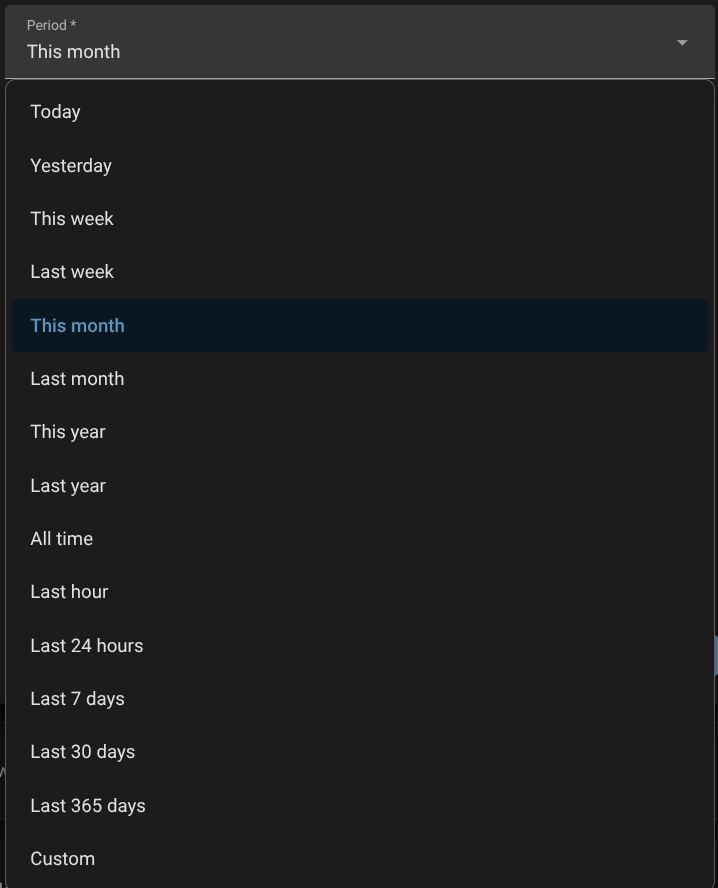
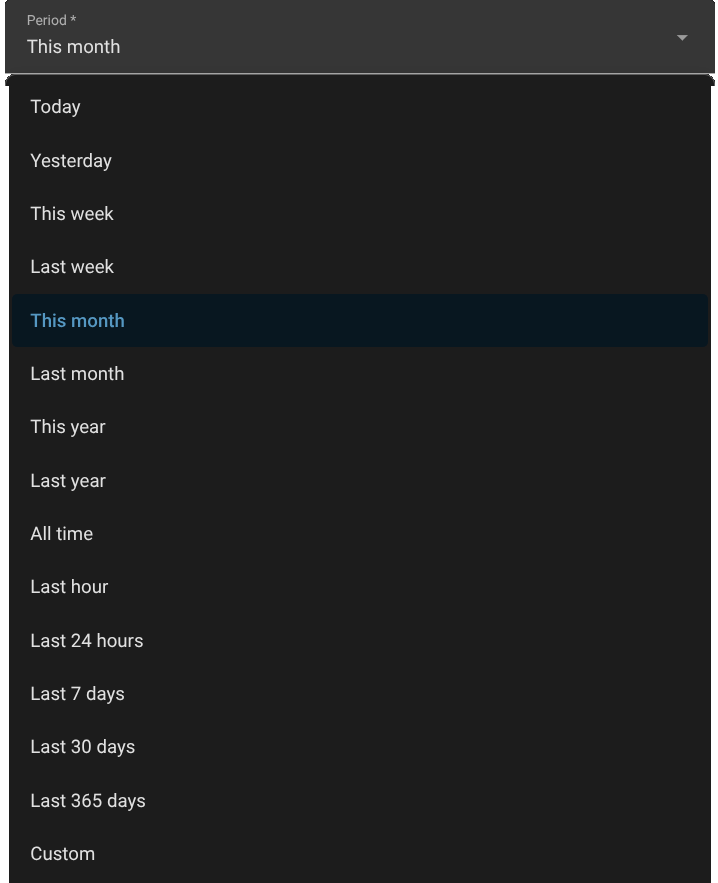
README: time at places, a fairer history_stats comparison, trimmed screenshots (#8)
* Show time at places: a person's zones are states like any other

* Compare with history_stats using the integration's own card

* Trim the screenshots to their dialogs and cards

* Scope the limitations to the statistics and say how rare the rest are

* Fold the hour-in-progress limitation into the hourly one

* Compare with history_stats as two foundations for the same numbers

* Open the history_stats comparison on the two approaches

* Say what starting from the statistics is for

* Rephrase the exactness paragraph

* Say what precompiled statistics cost to read

* Rework what the foundation gives, in the reader's terms

* Show how an interval count depends on its window once summed

* Say in what sense history_stats is the simpler choice

diff --git a/README.md b/README.md
@@ -464,6 +464,59 @@ With the stock card a state that appears later accumulates immediately
 but must be added to the card's `entities` list to be drawn; the card
 below draws it as soon as it has statistics.
 
+### Time at places
+
+A `person` or `device_tracker` entity's state is the zone it is in —
+`home`, `Work`, `Gym`, or `not_home` for anywhere else — so it is an enum
+entity like any other, and the same statistics answer "how long at the
+office this week" and "how many trips to the gym this year". Nothing to
+configure beyond the entity:
+
+```yaml
+discrete_statistics:
+  - entity_id: person.alice
+```
+
+Hours at each place per week, stacked, with the integration's card:
+
+```yaml
+type: custom:discrete-statistics-card
+title: Alice
+entity: person.alice
+chart_type: bar-stack
+period: week
+days_to_show: 90
+```
+
+The same with the stock card, naming the places to draw. The state is the
+zone's name, and the statistic ID holds it as a token — lower case, spaces
+and punctuation dropped — so a zone named *Work* is `work` and *Mum's
+House* is `mumshouse`:
+
+```yaml
+type: statistics-graph
+title: Alice
+chart_type: bar-stack
+period: week
+days_to_show: 90
+stat_types:
+  - change
+entities:
+  - discrete_statistics:person_alice_home_duration
+  - discrete_statistics:person_alice_work_duration
+  - discrete_statistics:person_alice_not_home_duration
+```
+
+Trips are the count statistic: `discrete_statistics:person_alice_gym_count`
+per month is how often the gym was visited, and a [period
+sensor](#period-sensors) over the `gym` state with the count measure and
+*This year* puts that number in a tile. A zone is a state from the moment
+its entity crosses the boundary, so a phone that reports its position
+every few minutes gives an arrival time accurate to that interval, and a
+short excursion out of a zone and back is a state change like any other —
+`min_duration` with `ignore_short` on `not_home` smooths those out.
+
+
 ## The card
 
 The integration ships its own card, so nothing needs adding under
@@ -748,22 +801,23 @@ idempotent and the next run catches up.
 ## Compared with `history_stats`
 
 Home Assistant's own [`history_stats`](https://www.home-assistant.io/integrations/history_stats/)
-answers a different question. It is a sensor whose value is *how much of a
-window* an entity spent in some states — the window being whatever its
-`start`/`end` templates render to right now — and it reads that from the
-recorder each time. This component writes the answer for every hour, once,
-into statistics that outlive the recorder. Each is the right tool for a
-specific job.
+answers the same questions — how long an entity spent in some states over
+a window, what share of the window that was, how often it entered them —
+and, over a window whose hours the recorder still holds, from the same
+rows, to the same result. The two approach it from opposite ends.
 
-The two are built the other way round from each other. `history_stats` is
-sensor first: the number is what it makes, and long-term statistics of it
-are optional, a `state_class` on the sensor for the recorder to sum. This
-component is statistics first: the hourly rows are the product, and a
+`history_stats` is sensor first. Its sensor is the product: on every
+refresh it reads the recorder's raw states for whatever window its
+templates render to now, and long-term statistics of that number are
+optional, a `state_class` on the sensor for the recorder to sum. This
+component is statistics first. The hourly rows are the product, compiled
+once from the raw states and kept past the recorder's retention, and a
 sensor over them is optional, a period sensor on the entry. That order is
 what lets the recorder's retention be short — a few days is enough, since
 the statistics are compiled from the history while it is still there — and
 what makes a long range cheap: a year is twelve rows a state, not a year of
-state changes read back.
+state changes read back. The difference between the two is where the
+number lives between readings.
 
 ### The same chart, both ways
 
@@ -813,118 +867,152 @@ discrete_statistics:
 ```
 
 ```yaml
-type: statistics-graph
+type: custom:discrete-statistics-card
+entity: binary_sensor.grid_status
 period: day
 days_to_show: 365
-stat_types:
-  - change
-entities:
-  - discrete_statistics:binary_sensor_grid_status_off_duration
-  - discrete_statistics:binary_sensor_grid_status_off_count
+metric: count
+states:
+  - "off"
 ```
 
-The two cards look alike. The first one is wrong in ways that are hard to
-see:
+and the same card with `metric: duration` for the hours off-grid.
 
-- **It starts today.** The sensors have no value before they exist, so the
-  chart is empty for the past year and fills in from now. The second reaches
-  back as far as the recorder held history when the entity was first
-  compiled.
-- **Midnight is detected, not known.** `total_increasing` has no reset
-  signal; the recorder infers one when the value drops below 90 % of the
-  previous reading. Whether an outage that spans midnight is counted once
-  or twice therefore depends on the day before: after a day with one outage
-  the count reads `1` on both sides of midnight, no drop, no reset, counted
-  once; after a day with two it drops from `2` to `1`, a reset, and the
-  outage is counted again. The second card credits it to the hour it began.
-- **A restart during the outage splits it.** `unavailable` is not `off`, so
-  the interval closes and a new one opens, the count goes up, and the
-  downtime is attributed to nothing. The second card carries `off` across
-  it.
-- **Three more states means six more sensors**, each with the same window
-  templates to keep right, and a state the entity has not shown yet has no
-  sensor at all.
-- **The value is a sensor's state**, so it is recorded to the recorder like
-  any other, purged like any other, and the statistics are derived from
-  samples of it rather than from the transitions themselves.
+The charts look alike; the foundation shows at the edges:
 
-None of that is a defect in `history_stats`: it was built to show a live
-figure, and the long-term statistics are a by-product of giving that figure
-a `state_class`. Writing the statistics directly is the point of this
-component.
+- **Where the series begins.** A sensor's statistics begin when the sensor
+  is created; compiled statistics begin where the recorder's history did.
+- **Midnight.** A `total_increasing` sensor resets by inference — the
+  recorder notices a drop below 90 % of the previous reading — so an outage
+  that spans midnight is counted once or twice depending on the day before:
+  after a day with one outage the count reads `1` on both sides of it, no
+  drop, counted once; after a day with two it drops from `2` to `1`, a
+  reset, counted again. A compiled hour credits a change to the hour it
+  happened in.
+- **A restart.** During an outage the entity is briefly `unavailable`; to a
+  sensor over `off` that is the end of one interval and the start of
+  another, and the downtime belongs to neither. Here `unavailable` carries
+  the previous state forward, so the outage stays one outage.
+- **More states.** Each state × measure × window is another sensor to
+  configure, with the same window templates to keep right; here every state
+  of the entity is recorded from one entry, including one it starts
+  reporting next year.
+- **What is stored.** A sensor's statistics are samples of its value, taken
+  as the recorder takes them; compiled statistics are the transitions
+  themselves, so every hour's durations add up to the hour.
 
-### Things this component does that `history_stats` cannot
+`history_stats` was built to show a live figure, and does; its long-term
+statistics are what the recorder makes of any sensor. This component
+starts from the statistics, and ensures those are accurately recorded over
+time.
 
-**Every state of an enum, from one line.** A heat pump's `hvac_action` has
+### What the foundation gives
+
+**High performance.** The statistics are precompiled, so a reading is
+arithmetic on a handful of rows: the sum at the window's last edge minus the
+sum at its first. The recorder's raw states are read only for what is not
+compiled yet — the hour in progress — and for a rolling or custom window,
+the hour an edge falls in: two hours of state changes at most, for a window
+of a day or a year alike. `history_stats` reads the whole window's state
+changes on every refresh, so a year-long window fetches a year of raw data
+every minute.
+
+**Long-term correctness.** Over a window whose hours the recorder still
+holds, both read the same state rows: no difference. Past the recorder's
+retention window `history_stats` is missing data - and the calculations
+become incorrect. Here the historical hours are already compiled, so
+long-term calculations stay correct. For sub-hour accuracy covering purged
+data (e.g. Last 365 days, with 7 day recorder retention) - we estimate the
+first partial hour by pro-rating that hour's statistics: see `estimated`.
+
+
+**Enables short recorder history (`purge_keep_days`).** Statistics are never
+purged. This component stores its key data in long-term statistics, so the
+recorder can be set to purge after a few days, with no impact to its graphs
+or sensors (save sub-hour pro-rating). `history_stats` requires a long recorder storage to function
+over long windows.
+
+**Every state from a single config.** A heat pump's `hvac_action` has
 `heating`, `cooling`, `idle`, `defrosting` and whatever next year's firmware
 adds. One entry here records all of them, duration and count, and a state
 that appears later gets its statistics the first hour it is seen.
 `history_stats` matches one set of states per sensor and merges the set into
 one figure, so *time in each of N states* is N sensors, counts are N more,
-and a new state is a new sensor you have to know to create.
+and a new state is two more to be manually added.
 
-**Survives `purge_keep_days`.** Statistics are never purged. A
-`history_stats` window that reaches past the recorder's retention returns
-a smaller number, silently: `0` hours over a range that was never recorded
-looks exactly like `0` hours in the state. Once this component has compiled
-the history, retention can be shortened without losing the series.
 
 **Hours that sum to the day.** Every state's duration is written for every
-hour, so a stacked bar of all of an entity's states is 24 h tall, and
-`mean` and `max` over a day are the average and the busiest hour — with quiet
-hours counted as quiet, not skipped.
+hour, so a stacked bar of all of an entity's states is always 24 h tall, and
+`mean` and `max` over a day are the average and the busiest hour — with
+quiet hours counted as quiet, not skipped.
 
-### Things `history_stats` does that this component cannot
+**Transitions counted.** `history_stats` counts the intervals in which a
+state was present within its window, not the transitions into it. This
+component counts transitions, so a light turned on once and left on all day
+is one transition in the hour it happened and one for the day, and the day
+is the sum of its hours. Summed into long-term statistics, a `history_stats`
+count depends on the window it was configured with: the same single
+switch-on is 1 with a daily window and 24 with an hourly one, since the
+light is present in every hour. Counting transitions gives meaningful
+long-term statistics.
 
-**A window to the second.** `history_stats` reads the recorder's raw
-states, so a window can start and end at any second and is exact within
-it for as long as the recorder keeps those states. A period sensor here
-takes the same `start`/`end`/`duration` templates, and a rolling window
-of the fixed lengths, but the hours are the statistics': a part hour is
-exact only while the recorder still holds it, and estimated after.
+**State masking.** This component enables arbitrary masking/combining of
+states - so if it's known that e.g. `unavailable` means `off`, it can be
+recorded that way.
 
-Its `ratio` type is not on that list. Hours per hour is already a fraction:
-the `mean` of a duration statistic over any period *is* the share of that
-period spent in the state - a `mean` of `0.4` is 40 % - and it is what the last
-chart under *Charts* draws.
+### What stays with `history_stats`
+
+**Matching a numeric value.** `history_stats` can count the time a sensor
+read `21.5`; this component only records entities whose state is a label
+(discrete values).
+
+**No compile step.** A `history_stats` sensor reads at creation. Here the
+first number waits for the first compile — a minute or two for a new entry,
+while its history is read — and a chart fills in an hour at a time.
 
 ### Side by side
 
 | | `history_stats` | `discrete_statistics` |
 |---|---|---|
-| Produces | one sensor: a value for the current window | per-state duration and count statistics, per hour; period sensors over them |
-| Freshness | on change, at least every minute | statistics after each hour closes; a period sensor on change and every minute |
-| Resolution | seconds, within the window | hourly buckets |
+| Produces | one sensor: a value for the current window | per-state, per-hour duration and count statistics; period sensors on top |
+| Freshness | on change, at least every minute | statistics after each hour closes; period sensors on change and every minute |
+| Resolution | seconds, within the window | the same, while the recorder holds the window's hours; hourly on the charts |
 | Reach into the past | as far as the recorder's retention | whole retained history on first run, kept forever after |
 | Backfill | none — begins when the sensor is created | first run, and `recompute` for any range with history |
-| After purge | window silently shrinks toward `0` | statistics unaffected |
+| After purge | the window shrinks with the retained history | statistics unaffected; an edge inside a purged hour is estimated |
 | States per entity | one set per sensor, merged into one number | every state, automatically |
-| A new state | a new sensor, when you notice | recorded from its first hour |
+| A new state | a new sensor | recorded from its first hour |
 | Count means | intervals in the window; a state active at the start counts | transitions into the state, in the hour they happen |
-| `unavailable` / `unknown` | not in the list, so they break the interval | carry the previous state forward; configurable |
+| `unavailable` / `unknown` | not in the list, so they break the interval | recorded or carry the previous state forward; configurable |
 | State mapping | none | `states:` map, `default`, `blank` |
 | Window | any template; two of `start`/`end`/`duration` | calendar periods; the last hour, 24 h, 7, 30 or 365 days; or two of `start`/`end`/`duration` templates |
 | Share of time | `ratio` % | `share` sensor, or the `mean` of a duration: hours per hour is a fraction |
 | Debounce | `min_state_duration` | `ignore_short` with `min_duration`, per state or as the default |
 | Usable in automations | yes, it is a sensor | yes, a period sensor |
 | Configuration | UI with live preview, or YAML; one sensor per state × metric × window | UI or YAML; one entry per entity, sensors added to it |
-| Long-term statistics | of the sensor's own value (`measurement`), or `total_increasing` with reset detection | are the product |
+| Long-term statistics | of the sensor's own value: `measurement`, or `total_increasing` with the reset inferred | are the product |
 
-Use `history_stats` for a window only a template can say; this component
-for the history, the chart, and the numbers over named periods that a
-purge cannot shrink.
+Both do the job they were built for. `history_stats` is built in and
+needs nothing compiled: a live figure the moment its YAML loads, over an
+entity whose history the recorder keeps, or a numeric value. This
+component is for the series — every state, every hour, kept past the
+purge horizon — with the same numbers as sensors over it.
 
 ## Limitations
 
-- Hourly buckets only. The external statistics API writes only to the
-  hourly table.
-- An in-progress state change is not charted until its hour closes; a
-  period sensor with the current hour included shows it.
-- A state committed later than the trailing window needs a manual
-  `recompute`.
-- The stock statistics-graph card names its statistics explicitly, so a
-  newly appearing state must be added to it by hand; the integration's own
-  card draws it as soon as it has statistics.
-- Hours the component was not running for, beyond the recorder's
-  `purge_keep_days`, are recorded only when its own last row can vouch for
-  the state; otherwise they stay empty (see *Gaps*).
+- The statistics are hourly: the external statistics API writes only to
+  the hourly table, so a chart's finest bucket is an hour. A period sensor
+  reads the recorder for the hours not yet compiled and for a window edge
+  inside an hour it still holds, so a number is exact to the state change
+  and, with the current hour included, current to it; only the charts are
+  hourly, and an hour reaches them once it closes.
+- Each hourly run recompiles the trailing three hours, so a state the
+  recorder commits within three hours of when it happened is picked up. One
+  committed later than that needs a manual `recompute`. That takes a state
+  committed after states that happened later than it, which the recorder's
+  own queue makes close to impossible.
+- If the component is disabled, or Home Assistant is down, for longer than
+  the recorder's `purge_keep_days`, the hours the recorder has purged by the
+  time it runs again cannot be compiled and leave a hole in the statistics
+  (see *Gaps*) — unless the entity did not change at all across them, which
+  its own last row can vouch for.
